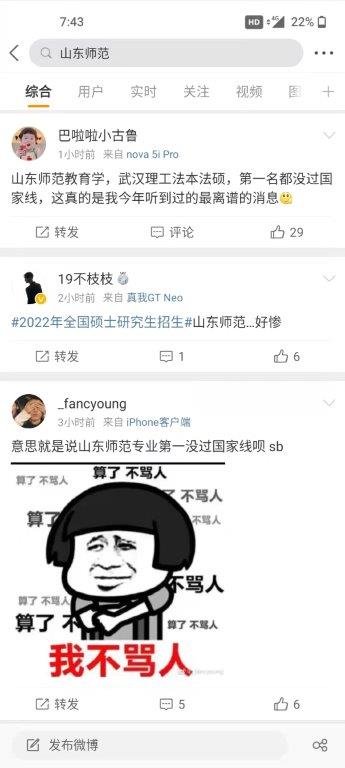
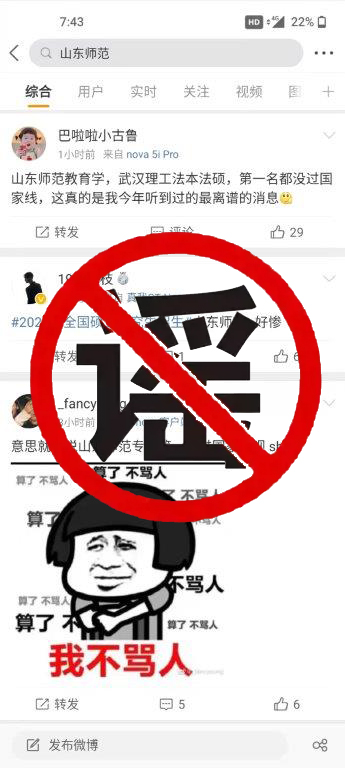
Site updated: 2022-03-19 18:04:15

Changed region(s): [[0.087, 0.2812, 0.9565, 0.6875]]

diff --git a/2022/03/05/复旦CTJ/index.html b/2022/03/05/复旦CTJ/index.html
@@ -50,7 +50,7 @@
 <meta property="og:image" content="https://azhuyang.top/2022/03/05/%E5%A4%8D%E6%97%A6CTJ/9.jpg">
 <meta property="og:image" content="https://azhuyang.top/2022/03/05/%E5%A4%8D%E6%97%A6CTJ/11.jpg">
 <meta property="article:published_time" content="2022-03-05T07:25:15.000Z">
-<meta property="article:modified_time" content="2022-03-16T14:22:09.819Z">
+<meta property="article:modified_time" content="2022-03-19T09:51:07.598Z">
 <meta property="article:author" content="阿猪羊">
 <meta property="article:tag" content="CTJ">
 <meta name="twitter:card" content="summary">
@@ -298,7 +298,7 @@
         <i class="far fa-calendar-check"></i>
       </span>
       <span class="post-meta-item-text">更新于</span>
-      <time title="修改时间：2022-03-16 22:22:09" itemprop="dateModified" datetime="2022-03-16T22:22:09+08:00">2022-03-16</time>
+      <time title="修改时间：2022-03-19 17:51:07" itemprop="dateModified" datetime="2022-03-19T17:51:07+08:00">2022-03-19</time>
     </span>
     <span class="post-meta-item">
       <span class="post-meta-item-icon">
@@ -383,7 +383,7 @@
 <!--![国家线](10.jpg "国家线]")-->
 <img src="/2022/03/05/%E5%A4%8D%E6%97%A6CTJ/10.jpg" class title="国家线">
 <ul>
-<li>清华这应用统计数三划线140？山东师范也太可怜了orz</li>
+<li>清华这应用统计数三划线140？<s><mark class="label default">山东师范也太可怜了orz</mark></s></li>
 </ul>
 <div class="group-picture"><div class="group-picture-row"><div class="group-picture-column"><img src="/2022/03/05/%E5%A4%8D%E6%97%A6CTJ/8.jpg" class title="清华"></div></div><div class="group-picture-row"><div class="group-picture-column"><img src="/2022/03/05/%E5%A4%8D%E6%97%A6CTJ/9.jpg" class title="山东师范"></div></div></div>
 <ul>

diff --git a/index.html b/index.html
@@ -277,7 +277,7 @@
         <i class="far fa-calendar-check"></i>
       </span>
       <span class="post-meta-item-text">更新于</span>
-      <time title="修改时间：2022-03-16 22:22:09" itemprop="dateModified" datetime="2022-03-16T22:22:09+08:00">2022-03-16</time>
+      <time title="修改时间：2022-03-19 17:51:07" itemprop="dateModified" datetime="2022-03-19T17:51:07+08:00">2022-03-19</time>
     </span>
     <span class="post-meta-item">
       <span class="post-meta-item-icon">
